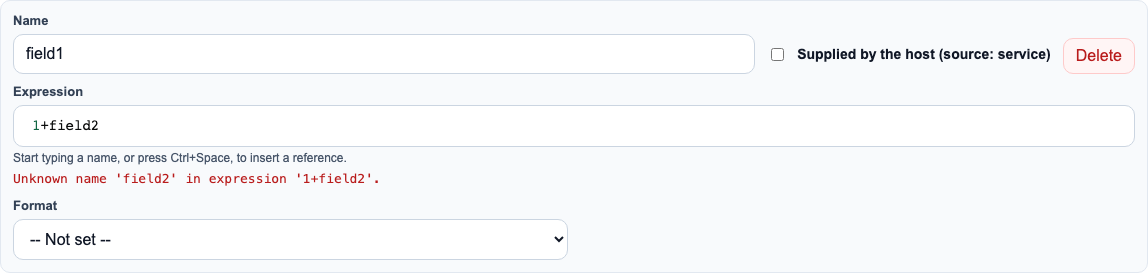
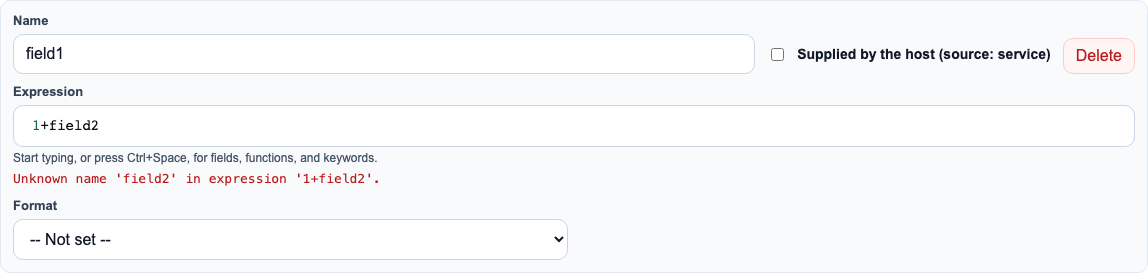
feat: extend inline autocomplete to the whole calculation language (#50)
The reference autocomplete shipped in #49 only offered blueprint-
specific field/table names. Extends it to real IntelliSense for the
entire grammar (docs/guides/calculation-language.md): every operator
and boolean literal (and/or/not/true/false) as plain completions, and
every built-in function (if/min/max/clamp/abs/floor/round/pow/lookup/
matches) as a snippet — accepting "clamp" inserts
"clamp(value, lo, hi)" with the first argument selected, ready to
overtype and Tab through to the next, same as a real coding editor.

The completion source needs its own filtering here too, matching
either a completion's identifier or its detail text, since CM6's
default filtering only matches Completion.label — otherwise a
same-prefix collision between a real field and a keyword/function
(e.g. "tr" matching both a field containing "...ntr..." and the
keyword "true") has to be resolved by clicking the exact option
rather than trusting which one CM6 highlights by default, which the
new test does.

Also fixed a small pre-existing gap while touching this file:
"matches" (the regex predicate function, #46) was never added to the
syntax highlighter's own FUNCTIONS set, so it rendered as a plain
identifier instead of getting the "builtin" highlight every other
function gets.

Claude-Session: (background job)

Changed region(s): [[0.061, 0.5568, 0.3354, 0.6154]]

diff --git a/Wayfinder.Editor.Client/src/service-blueprint-editor/calculation-expression-editor-codemirror.ts b/Wayfinder.Editor.Client/src/service-blueprint-editor/calculation-expression-editor-codemirror.ts
@@ -30,6 +30,7 @@ import { linter, type Diagnostic } from '@codemirror/lint';
 import {
   autocompletion,
   completionKeymap,
+  snippetCompletion,
   startCompletion,
   type Completion,
   type CompletionContext,
@@ -47,8 +48,38 @@ export interface ExpressionCompletionItem {
 }
 
 const KEYWORDS = new Set(['and', 'or', 'not', 'true', 'false']);
-const FUNCTIONS = new Set(['if', 'min', 'max', 'clamp', 'abs', 'floor', 'round', 'pow', 'lookup']);
+const FUNCTIONS = new Set(['if', 'min', 'max', 'clamp', 'abs', 'floor', 'round', 'pow', 'lookup', 'matches']);
 const PUNCTUATION = new Set(['(', ')', ',']);
+
+/**
+ * The language's own vocabulary — operators, boolean literals, and every built-in function —
+ * offered as completions alongside blueprint-specific fields/tables, so autocomplete covers the
+ * whole grammar (docs/guides/calculation-language.md), not just reference lookup. Kept in step
+ * with that doc's own Functions table and Grammar section by hand, same as FUNCTIONS/KEYWORDS
+ * above already are for highlighting.
+ */
+const KEYWORD_COMPLETIONS: Completion[] = [
+  { label: 'and', type: 'keyword', detail: 'a and b — logical AND, short-circuits' },
+  { label: 'or', type: 'keyword', detail: 'a or b — logical OR, short-circuits' },
+  { label: 'not', type: 'keyword', detail: 'not a — logical NOT' },
+  { label: 'true', type: 'constant', detail: 'boolean literal' },
+  { label: 'false', type: 'constant', detail: 'boolean literal' },
+];
+
+const FUNCTION_COMPLETIONS: Completion[] = [
+  snippetCompletion('if(${cond}, ${then}, ${else})', { label: 'if', type: 'function', detail: 'ternary — cond must be boolean' }),
+  snippetCompletion('min(${a}, ${b})', { label: 'min', type: 'function', detail: 'numeric min, 2+ args' }),
+  snippetCompletion('max(${a}, ${b})', { label: 'max', type: 'function', detail: 'numeric max, 2+ args' }),
+  snippetCompletion('clamp(${value}, ${lo}, ${hi})', { label: 'clamp', type: 'function', detail: 'min(max(value, lo), hi)' }),
+  snippetCompletion('abs(${x})', { label: 'abs', type: 'function', detail: 'absolute value' }),
+  snippetCompletion('floor(${x})', { label: 'floor', type: 'function', detail: 'round toward negative infinity' }),
+  snippetCompletion('round(${x})', { label: 'round', type: 'function', detail: 'round(x) or round(x, places) — away from zero' }),
+  snippetCompletion('pow(${x}, ${y})', { label: 'pow', type: 'function', detail: 'x raised to the power y' }),
+  snippetCompletion('lookup(${tableName}, ${key})', { label: 'lookup', type: 'function', detail: 'table lookup — tableName is a bare name' }),
+  snippetCompletion('matches(${text}, ${pattern})', { label: 'matches', type: 'function', detail: 'regex predicate — true if pattern matches text' }),
+];
+
+const LANGUAGE_COMPLETIONS: Completion[] = [...KEYWORD_COMPLETIONS, ...FUNCTION_COMPLETIONS];
 
 interface CalcTokenizerState {
   tokens: CalculationToken[] | null;
@@ -124,7 +155,10 @@ const singleLineFilter = EditorState.transactionFilter.of(tr =>
  * Reads the live item list via a getter (not a captured array) so completions stay correct as
  * the row's own available references change after this view was created — an author adding a
  * new field, renaming one, or adding a table must be reflected the next time completion opens,
- * not frozen at whatever existed when this specific expression editor first mounted.
+ * not frozen at whatever existed when this specific expression editor first mounted. Always
+ * offers the language's own vocabulary too (LANGUAGE_COMPLETIONS) — this is IntelliSense for the
+ * whole grammar, not just reference lookup, so `if`/`matches`/`and`/`clamp`/... show up
+ * alongside whatever fields this row can see.
  *
  * Filters against both the identifier (Completion.label — what CM6 matches by default) AND its
  * human-readable detail text, since a real author is just as likely to type a fragment of a
@@ -141,19 +175,19 @@ function referenceCompletionSource(getItems: () => ExpressionCompletionItem[]) {
       return null;
     }
 
-    const query = word.text.toLowerCase();
-    const matches = getItems().filter(
-      item => item.name.toLowerCase().includes(query) || item.detail.toLowerCase().includes(query)
-    );
-    if (matches.length === 0) {
-      return null;
-    }
-
-    const options: Completion[] = matches.map(item => ({
+    const fieldOptions: Completion[] = getItems().map(item => ({
       label: item.name,
       detail: item.detail,
       type: 'variable',
     }));
+
+    const query = word.text.toLowerCase();
+    const options = [...fieldOptions, ...LANGUAGE_COMPLETIONS].filter(
+      option => option.label.toLowerCase().includes(query) || (option.detail ?? '').toLowerCase().includes(query)
+    );
+    if (options.length === 0) {
+      return null;
+    }
 
     return { from: word.from, options, filter: false };
   };

diff --git a/Wayfinder.ReferenceApp.Tests/tests/calculations-editor.spec.ts b/Wayfinder.ReferenceApp.Tests/tests/calculations-editor.spec.ts
@@ -342,6 +342,72 @@ test.describe('Calculations tab', () => {
     await captureDocScreenshot(newRow, `${DOCS_DIR}/field-autocomplete.png`);
   });
 
+  test('inline autocomplete covers the whole calculation language, not just field references', async ({ page }) => {
+    // IntelliSense for the grammar itself: every built-in function (as a snippet — accepting
+    // "clamp" inserts "clamp(value, lo, hi)" with the first argument selected, ready to overtype
+    // and Tab through, same as a real IDE) and every keyword/boolean literal, not only
+    // blueprint-specific field/table names.
+    await loginAs(page, DEMO_USERS.caseworker);
+    await page.getByRole('link', { name: 'Editor' }).click();
+
+    const shell = page.locator('[data-wayfinder-component="service-blueprint-editor-shell"]');
+    await shell.waitFor({ timeout: 15_000 });
+
+    await selectInsuranceModeller(page);
+    await page.getByRole('tab', { name: 'Calculations' }).click();
+
+    const calcTab = page.locator('wayfinder-calculations-editor');
+    await calcTab.waitFor({ timeout: 10_000 });
+
+    const addFieldButton = calcTab.locator('.calc-section', { hasText: 'Fields' }).getByRole('button', { name: '+ Add field' });
+    await addFieldButton.click();
+    await page.waitForTimeout(200);
+
+    const newRow = calcTab.locator('[data-wayfinder-calc-field="field1"]');
+    await expect(newRow).toBeVisible();
+
+    const editor = newRow.locator('wayfinder-calculation-expression-editor');
+    const cm = editor.locator('.cm-content');
+    const tooltip = editor.locator('.cm-tooltip-autocomplete');
+
+    await test.step('a function completes as a snippet with tab-stops over its own arguments', async () => {
+      await cm.click();
+      await cm.pressSequentially('cla');
+      await expect(tooltip).toBeVisible();
+      await expect(tooltip).toContainText('clamp');
+      await page.keyboard.press('Enter');
+      await page.waitForTimeout(200);
+      await expect(cm).toHaveText('clamp(value, lo, hi)');
+
+      // The first placeholder ("value") is selected on insertion — typing overtypes it, not
+      // appends after it.
+      await page.keyboard.type('5');
+      await expect(cm).toHaveText('clamp(5, lo, hi)');
+
+      // Tab moves to the next placeholder ("lo"), which is likewise selected.
+      await page.keyboard.press('Tab');
+      await page.keyboard.type('10');
+      await expect(cm).toHaveText('clamp(5, 10, hi)');
+    });
+
+    await test.step('a keyword completes too, not only functions and fields', async () => {
+      await cm.click();
+      await page.keyboard.press('End');
+      await cm.pressSequentially(' or tr');
+      await expect(tooltip).toBeVisible();
+      // "tr" alone also substring-matches this blueprint's own "experienceDiscountRate" field
+      // (…cou**ntr**ate) — click the exact keyword option rather than trust Enter picks whichever
+      // one CM6 highlights by default among several real matches. The option's label/detail spans
+      // have no whitespace between them in the DOM, so the accessible name concatenates with no
+      // space ("truebooleanliteral") — anchor on the start only, not a \b word boundary.
+      const trueOption = tooltip.getByRole('option', { name: /^true/ });
+      await expect(trueOption).toBeVisible();
+      await trueOption.click();
+      await page.waitForTimeout(200);
+      await expect(cm).toHaveText('clamp(5, 10, hi) or true');
+    });
+  });
+
   test('a table can be added, with interpolate and row values reflected in the UI', async ({ page }) => {
     // Neither seed blueprint declares any calculations.tables — this is the only coverage of
     // the Tables section, added specifically so its docs/skills screenshot has real content

diff --git a/Wayfinder.Editor.Client/src/service-blueprint-editor/wayfinder-calculation-expression-editor.ts b/Wayfinder.Editor.Client/src/service-blueprint-editor/wayfinder-calculation-expression-editor.ts
@@ -1,4 +1,4 @@
-import { LitElement, html, css, nothing } from 'lit';
+import { LitElement, html, css } from 'lit';
 import { customElement, property, state } from 'lit/decorators.js';
 import type { ExpressionCompletionItem } from './calculation-expression-editor-codemirror.js';
 
@@ -13,10 +13,13 @@ export type { ExpressionCompletionItem };
  * Lit's own rendering handles creating/destroying instances as rows are added/removed/reordered —
  * no manual instance bookkeeping needed in the parent.
  *
- * Reference discovery (which field/table names exist to reference) is inline autocomplete —
- * see `completions` below — not a separate picker widget beside the box. A prior version of this
- * properties panel used exactly that (a picker beside the box), which broke down on a genuinely
- * long expression: this editor is deliberately single-line with no wrapping (see the
+ * Autocomplete is inline IntelliSense for the whole calculation language, not just reference
+ * lookup — see `completions` below for the blueprint-specific half (field/table/series names);
+ * calculation-expression-editor-codemirror.ts always also offers the language's own fixed
+ * vocabulary alongside it (every operator, boolean literal, and built-in function, with a
+ * snippet template for a function's own arguments). Not a separate picker widget beside the box:
+ * a prior version of this properties panel used exactly that, which broke down on a genuinely
+ * long expression — this editor is deliberately single-line with no wrapping (see the
  * transactionFilter in calculation-expression-editor-codemirror.ts), so a long expression simply
  * overflowed past its column and visually collided with the picker sitting next to it.
  * Autocomplete needs no extra layout space — it opens as a tooltip at the cursor — so it scales
@@ -121,9 +124,7 @@ export class WayfinderCalculationExpressionEditorElement extends LitElement {
         ? html`<p class="load-error" role="alert">Couldn't load the expression editor: ${this._loadError}</p>`
         : !this._ready
           ? html`<p class="loading" role="status">Loading…</p>`
-          : this.completions.length > 0
-            ? html`<p class="hint">Start typing a name, or press Ctrl+Space, to insert a reference.</p>`
-            : nothing}
+          : html`<p class="hint">Start typing, or press Ctrl+Space, for fields, functions, and keywords.</p>`}
     `;
   }
 
